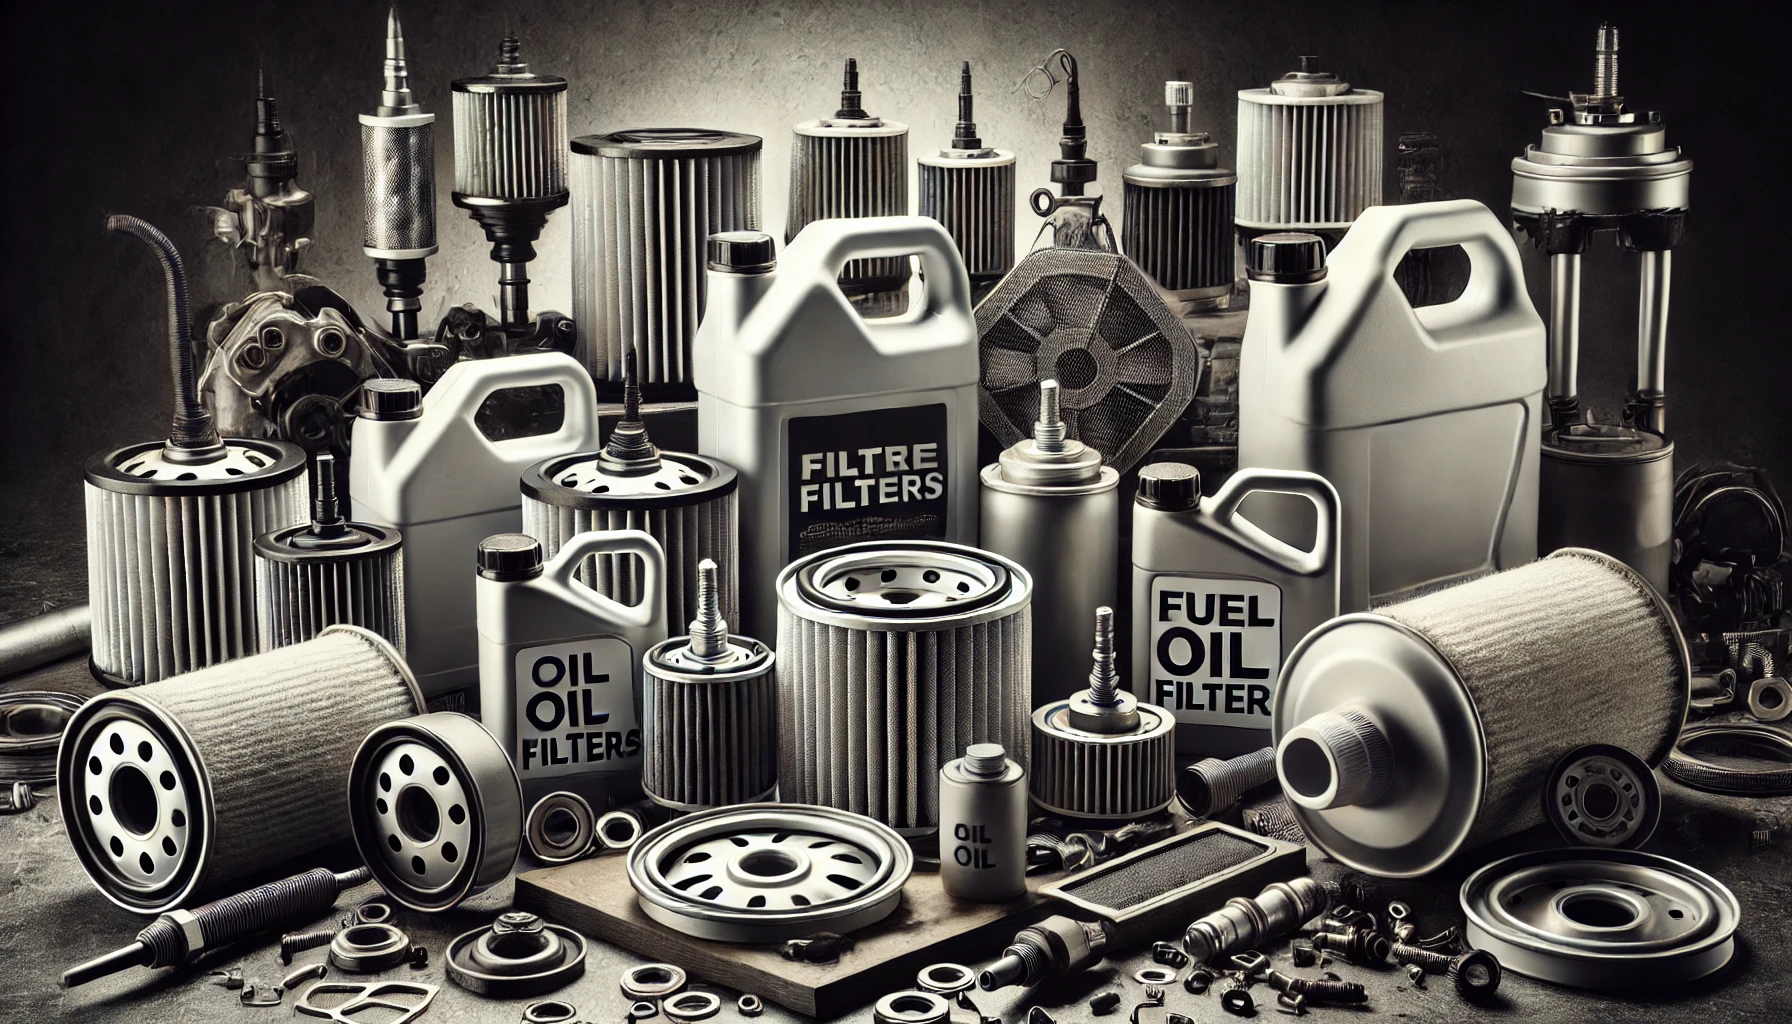
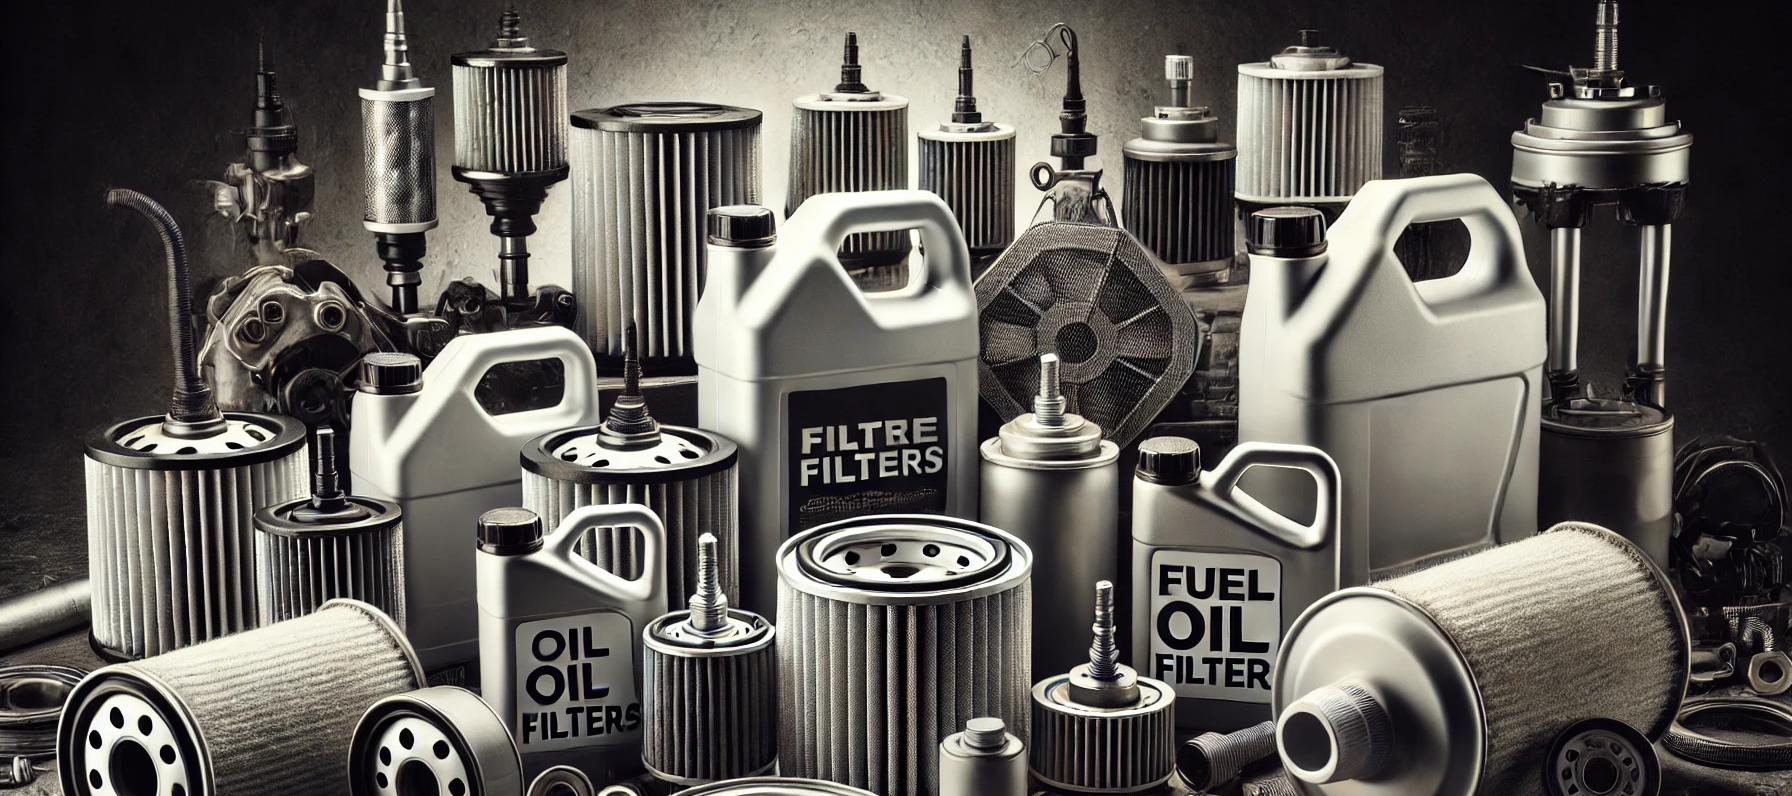
Modificación de Imagen de Portada

diff --git a/index.html b/index.html
@@ -8,7 +8,7 @@
   <link href="https://cdn.jsdelivr.net/npm/bootstrap@5.3.3/dist/css/bootstrap.min.css" rel="stylesheet"
     integrity="sha384-QWTKZyjpPEjISv5WaRU9OFeRpok6YctnYmDr5pNlyT2bRjXh0JMhjY6hW+ALEwIH" crossorigin="anonymous">
   <link rel="stylesheet" href="/CSS/styles.css">
-  <link rel="shortcut icon" href="./IMG/Favicon.svg" type="image/x-icon">
+  <link rel="shortcut icon" href="../IMG/Favicon.svg" type="image/x-icon">
 
   <title>Inicio</title>
 </head>
@@ -19,7 +19,7 @@
     <nav class="navbar navbar-expand-lg bg-dark border-bottom border-body" data-bs-theme="dark">
       <div class="container-fluid">
         <a class="navbar-brand" href="#">
-          <img src="./IMG/TITANMAQ (1).png" alt="Bootstrap" width="100%" height="40">
+          <img src="./IMG/TITANMAQ (1).png" alt="Bootstrap" width="40" height="40">
         </a>
         <button class="navbar-toggler" type="button" data-bs-toggle="collapse" data-bs-target="#navbarSupportedContent"
           aria-controls="navbarSupportedContent" aria-expanded="false" aria-label="Toggle navigation">
@@ -60,14 +60,13 @@
     </nav>
   </header>
 
-  <section>
-    <img src="./IMG/imagen1.jpg" class="imagen1" alt="Imagen ilustrativa">
-  </section>
+<img src="./IMG/imagenPrincipal.png" class="imagen1" alt="Imagen ilustrativa">
+ 
   <!-- <section>
     <video src="./VIDEO/video.mp4" controls>Video ilustrativo</video>
 </section> -->
 
-  <h2 class="mt-3">Productos de interés</h2>
+  <h2 class="mt-3"><strong>Productos de interés</strong></h2>
 
   <main>
 

diff --git a/scss/styles.scss b/scss/styles.scss
@@ -9,15 +9,16 @@ $yellow-hover: #e6b800;
 * {
   margin: 0;
   padding: 0;
+  box-sizing: border-box;
 }
 
 // Favicon
 .material-symbols-outlined {
   font-variation-settings:
-  'FILL' 0,
-  'wght' 400,
-  'GRAD' 0,
-  'opsz' 24
+    'FILL' 0,
+    'wght' 400,
+    'GRAD' 0,
+    'opsz' 24
 }
 
 // Mixins
@@ -34,6 +35,11 @@ $yellow-hover: #e6b800;
 
 // Estilos Globales
 
+.imagen1 {
+  width: 100%;
+  height: 300px;
+}
+
 body {
   $base-font: Arial, sans-serif;
   background-color: #ffffff;
@@ -44,7 +50,7 @@ body {
   min-height: 100vh;
   margin: 0;
   text-align: center;
-  padding: 80px 0;
+  padding: 0;
 }
 
 h1 {
@@ -244,7 +250,7 @@ footer {
           margin: 15px;
           padding: 15px;
           text-align: center;
-          
+
 
           .imagenc {
             width: 100%;
